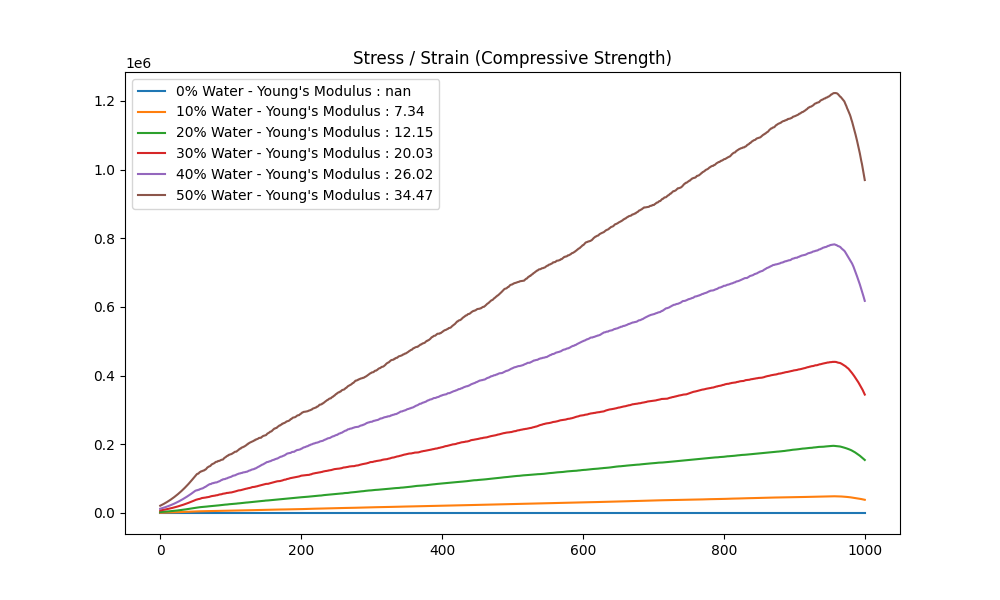
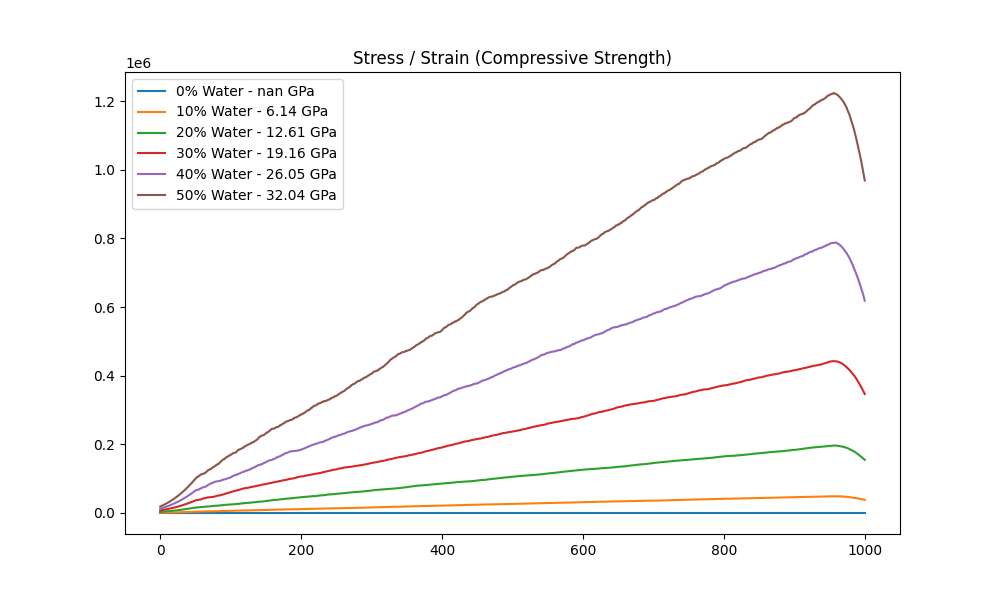
Updated Graphs

diff --git a/method2.py b/method2.py
@@ -87,7 +87,7 @@ def plotgraph(waterPercent, x):
 
 
     # Plot the stress strain graph and highlight the highest and lowest yield points
-    plt.plot(data, label=f'{waterPercent}% Water - Young\'s Modulus : {round(slope*1e-2, 2)}')
+    plt.plot(data, label=f'{waterPercent}% Water - {round(slope*1e-2, 2)} GPa')
     # plt.axhline(y=maxPoint, color='b', linestyle='dotted') # Strongest mix
     leg = plt.legend(loc='best')
     plt.title("Stress / Strain (Compressive Strength)")
